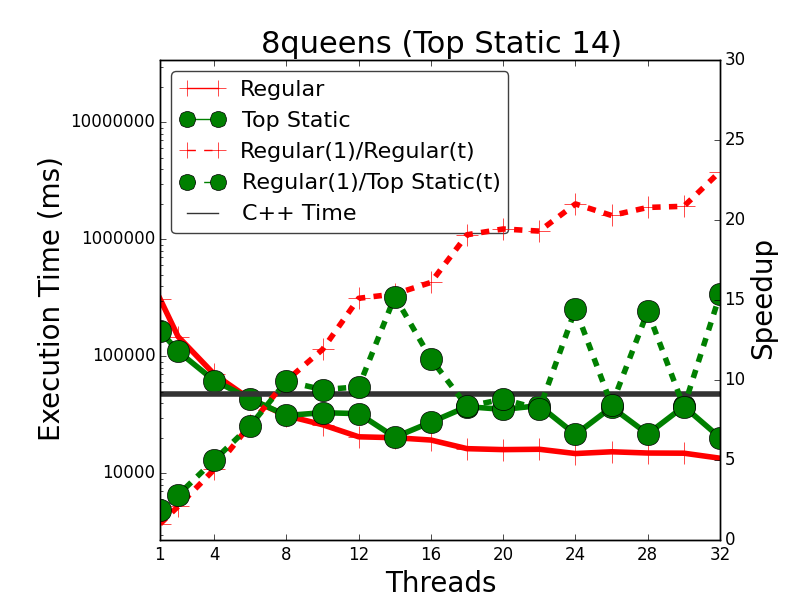
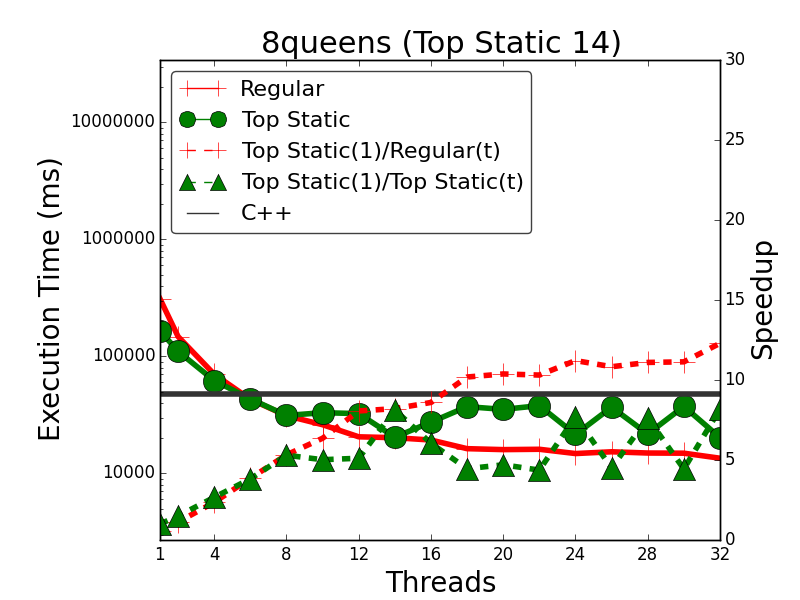
Update figures.

diff --git a/coordination/coord_sssp.tex b/coordination/coord_sssp.tex
@@ -106,10 +106,10 @@ program. We use the datasets already described in
 Section~\ref{section:implementation:performance}.  In each plot we present the
 following lines: \textbf{Regular}, which represents the run time of the regular
 version; \textbf{Coordinated}, which represents the run time of the coordinated
-version; \textbf{Regular(1)/Regular(t)}, which represents the speedup of the
-regular version using the single threaded regular version as the baseline;
-\textbf{Regular(1)/Coordinated(t)}, which represents the speedup of the
-coordinated version against the run time of the regular version using 1 thread
+version; \textbf{Coordinated(1)/Regular(t)}, which represents the speedup of the
+regular version using the single threaded coordinated version as the baseline;
+\textbf{Coordinated(1)/Coordinated(t)}, which represents the speedup of the
+coordinated version against the run time of the coordination version using 1 thread
 as the baseline; \textbf{C++}, which represents the run time of the MSSD C++
 program already presented in Section~\ref{section:implementation:performance};
 \textbf{Ligra}, which represents the run time of the MSSD program written in the
@@ -126,9 +126,10 @@ are the datasets where the distance is calculated for fewer nodes. When
 calculating the distance from multiple sources, the \code{set-priority} fact is
 less effective because, although it selects the node with the shortest distance
 to some source node, other distance computations (from other source nodes) are
-also propagated to neighbor nodes, which may not be optimal. However, this
-shows the beauty of our coordination model since a solution could potentially be implemented by adding new coordination facts
-and then changing the underlying machinery to support the new model, without making changes to the semantics of the language.
+also propagated to neighbor nodes, which is not be optimal. However,
+a potential solution to this problem is to add new coordination facts
+and then change the underlying coordination machinery to support fact-based priorities (instead of node based).
+This shows the beauty of our coordination model since this would not require changes to the semantics of the language.
 Furthermore, the shortest distance algorithm would still remain declarative and correct
 due to the invariants that are always held when applying the program's rules.
 
@@ -220,7 +221,7 @@ support from the VM and then we ran the same experiments where priority updates
 are done immediately. The results are presented in
 Fig.~\ref{fig:coordination:results_sssp_unbuffered}. From the results, we can
 see that some datasets, such as EU Email and US Power Grid, maintain their
-overall scalability, especially the speedup (\textbf{Regular(1)/Coordinated(t)})
+overall scalability, especially the speedup (\textbf{Coordinated(1)/Coordinated(t)})
 for 32 threads (\textbf{t = 32}). For the OCLinks and Twitter datasets, there is
 some performance degradation since their overall scalability drops without the
 optimization. However, the Live Journal dataset improves its performance and

diff --git a/experiments/lib.py b/experiments/lib.py
@@ -874,9 +874,9 @@ class experiment(object):
          label='Regular Run Time', linestyle='-', marker='+', color='r')
       coordtime, = ax.plot(coord_exp.x_axis(), coord_exp.time_data(),
          label=name_coord + ' Run Time', linestyle='-', marker='o', color='g')
-      regspeedup, = ax2.plot(self.x_axis(), self.base_speedup_data(), label="Regular Speedup", linestyle='--', color='r', marker='+')
-      coordspeedup, = ax2.plot(coord_exp.x_axis(), coord_exp.base_speedup_data(self.get_time(1)),
-            label=name_coord + ' Speedup', linestyle='--', marker='o', color='g')
+      regspeedup, = ax2.plot(self.x_axis(), self.base_speedup_data(coord_exp.get_time(1)), label="Regular Speedup", linestyle='--', color='r', marker='+')
+      coordspeedup, = ax2.plot(coord_exp.x_axis(), coord_exp.base_speedup_data(coord_exp.get_time(1)),
+            label=name_coord + ' Speedup', linestyle='--', marker='^', color='g')
       if cexp:
          ctime, = ax.plot(self.x_axis(), [cexp.get_time(1)] * len(self.x_axis()),
            label='Linear', linestyle='-', color=cmap(0.2))
@@ -887,10 +887,10 @@ class experiment(object):
          otherplots.append((other_name, plot))
 
       lines = [(regtime), coordtime, regspeedup, coordspeedup]
-      labels = ["Regular", name_coord, "Regular(1)/Regular(t)", "Regular(1)/" + name_coord + "(t)"]
+      labels = ["Regular", name_coord, name_coord + "(1)/Regular(t)", name_coord + "(1)/" + name_coord + "(t)"]
       if cexp:
         lines.append(ctime)
-        labels.append("C++ Time")
+        labels.append("C++")
       for (name, plot) in otherplots:
          lines.append(plot)
          labels.append(name)

diff --git a/coordination/ht.tex b/coordination/ht.tex
@@ -73,9 +73,9 @@ The results for the improved version are presented in
 Fig.~\ref{fig:coordination:results_ht_new}. There is a clear improvement when
 compared to the previous version, since when using 32 threads, there is a 25\%
 run time reduction for the coordinated version. For the same number of threads,
-the line \textbf{Regular(1)/Coordinated(t)} reaches only a 20-fold speedup,
-while the old version achieves a 16-fold speedup. However, this comes at the
-price of reduced accuracy in the computed heat values.
+the line \textbf{Coordinated(1)/Coordinated(t)} reaches a 10-fold speedup, while
+the old version achieves a 9-fold speedup. However, this comes at the price of
+reduced accuracy in the computed heat values.
 
 \begin{figure}[h!]
 \begin{LineCode}[commandchars=\\\[\]]

diff --git a/experiments/coordination/compare-sssp.py b/experiments/coordination/compare-sssp.py
@@ -38,6 +38,6 @@ for name in regular_threaded.experiment_names():
             name_used = sys.argv[6]
          else:
             name_used = None
-         regular_exp.coordination_compare(coord_exp, c_exp, prefix, name_used, None, {"Ligra": ligra_exp})
+         regular_exp.coordination_compare(coord_exp, c_exp, prefix, name_used, None, {"Ligra Time": ligra_exp})
 
 sys.exit(0)
